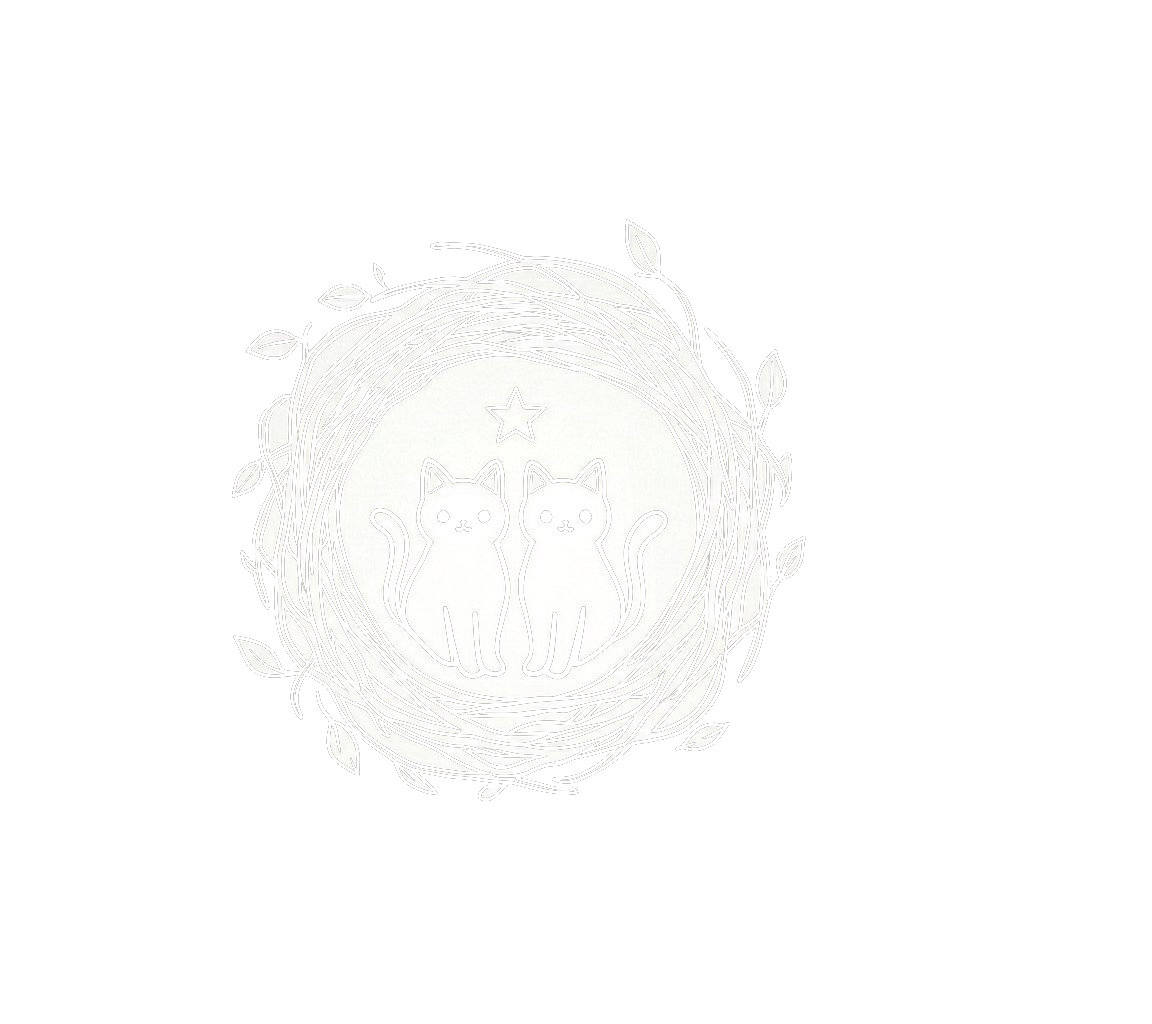
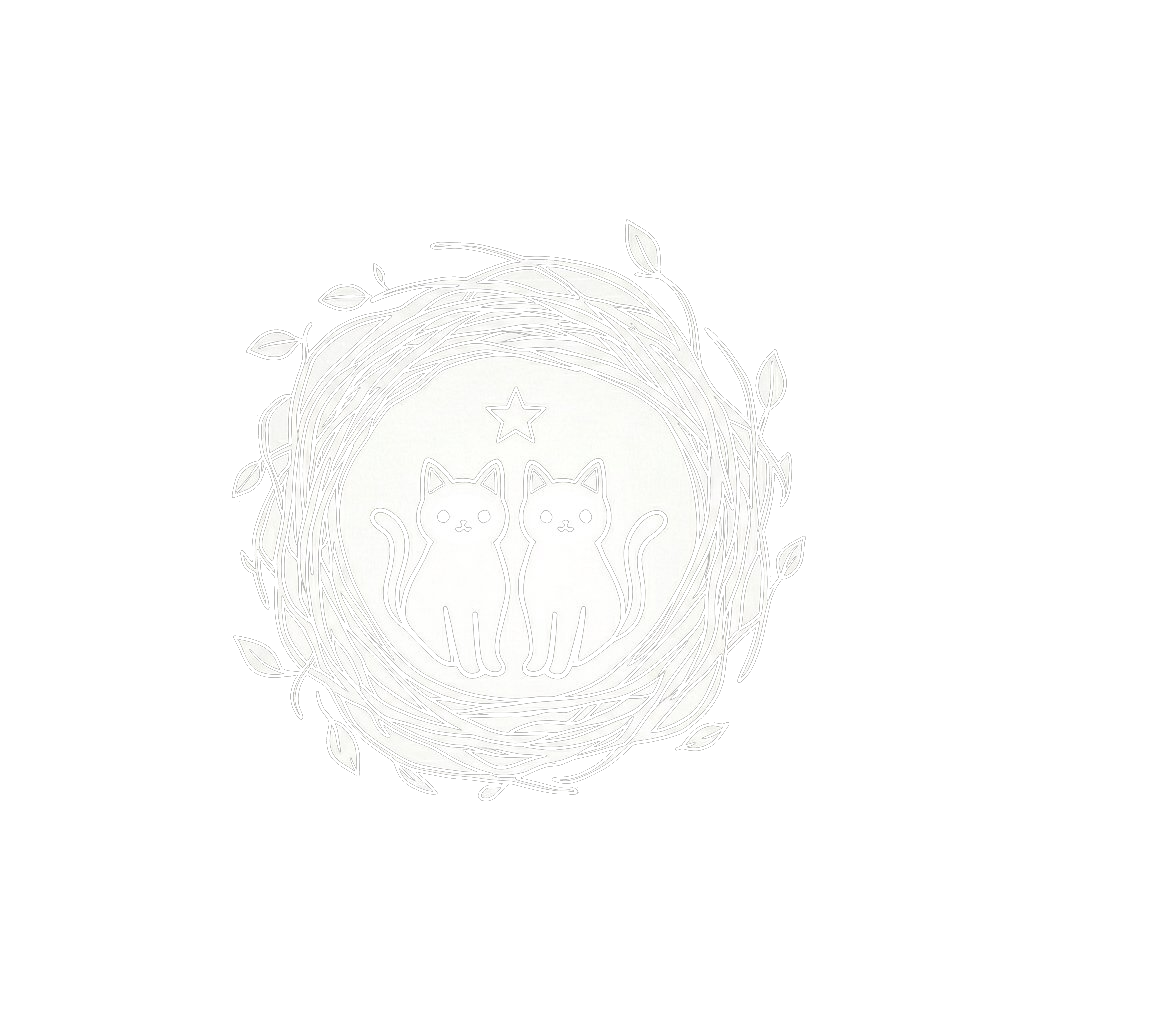
Add files via upload

diff --git a/honnori_green.html b/honnori_green.html
@@ -342,7 +342,7 @@
     top: -25%;
     width: 150%;
     height: 150%;
-    background-image: url('nurie.png');
+    background-image: url('nurie_bg.png');
     background-size: contain;
     background-repeat: no-repeat;
     background-position: top left;
